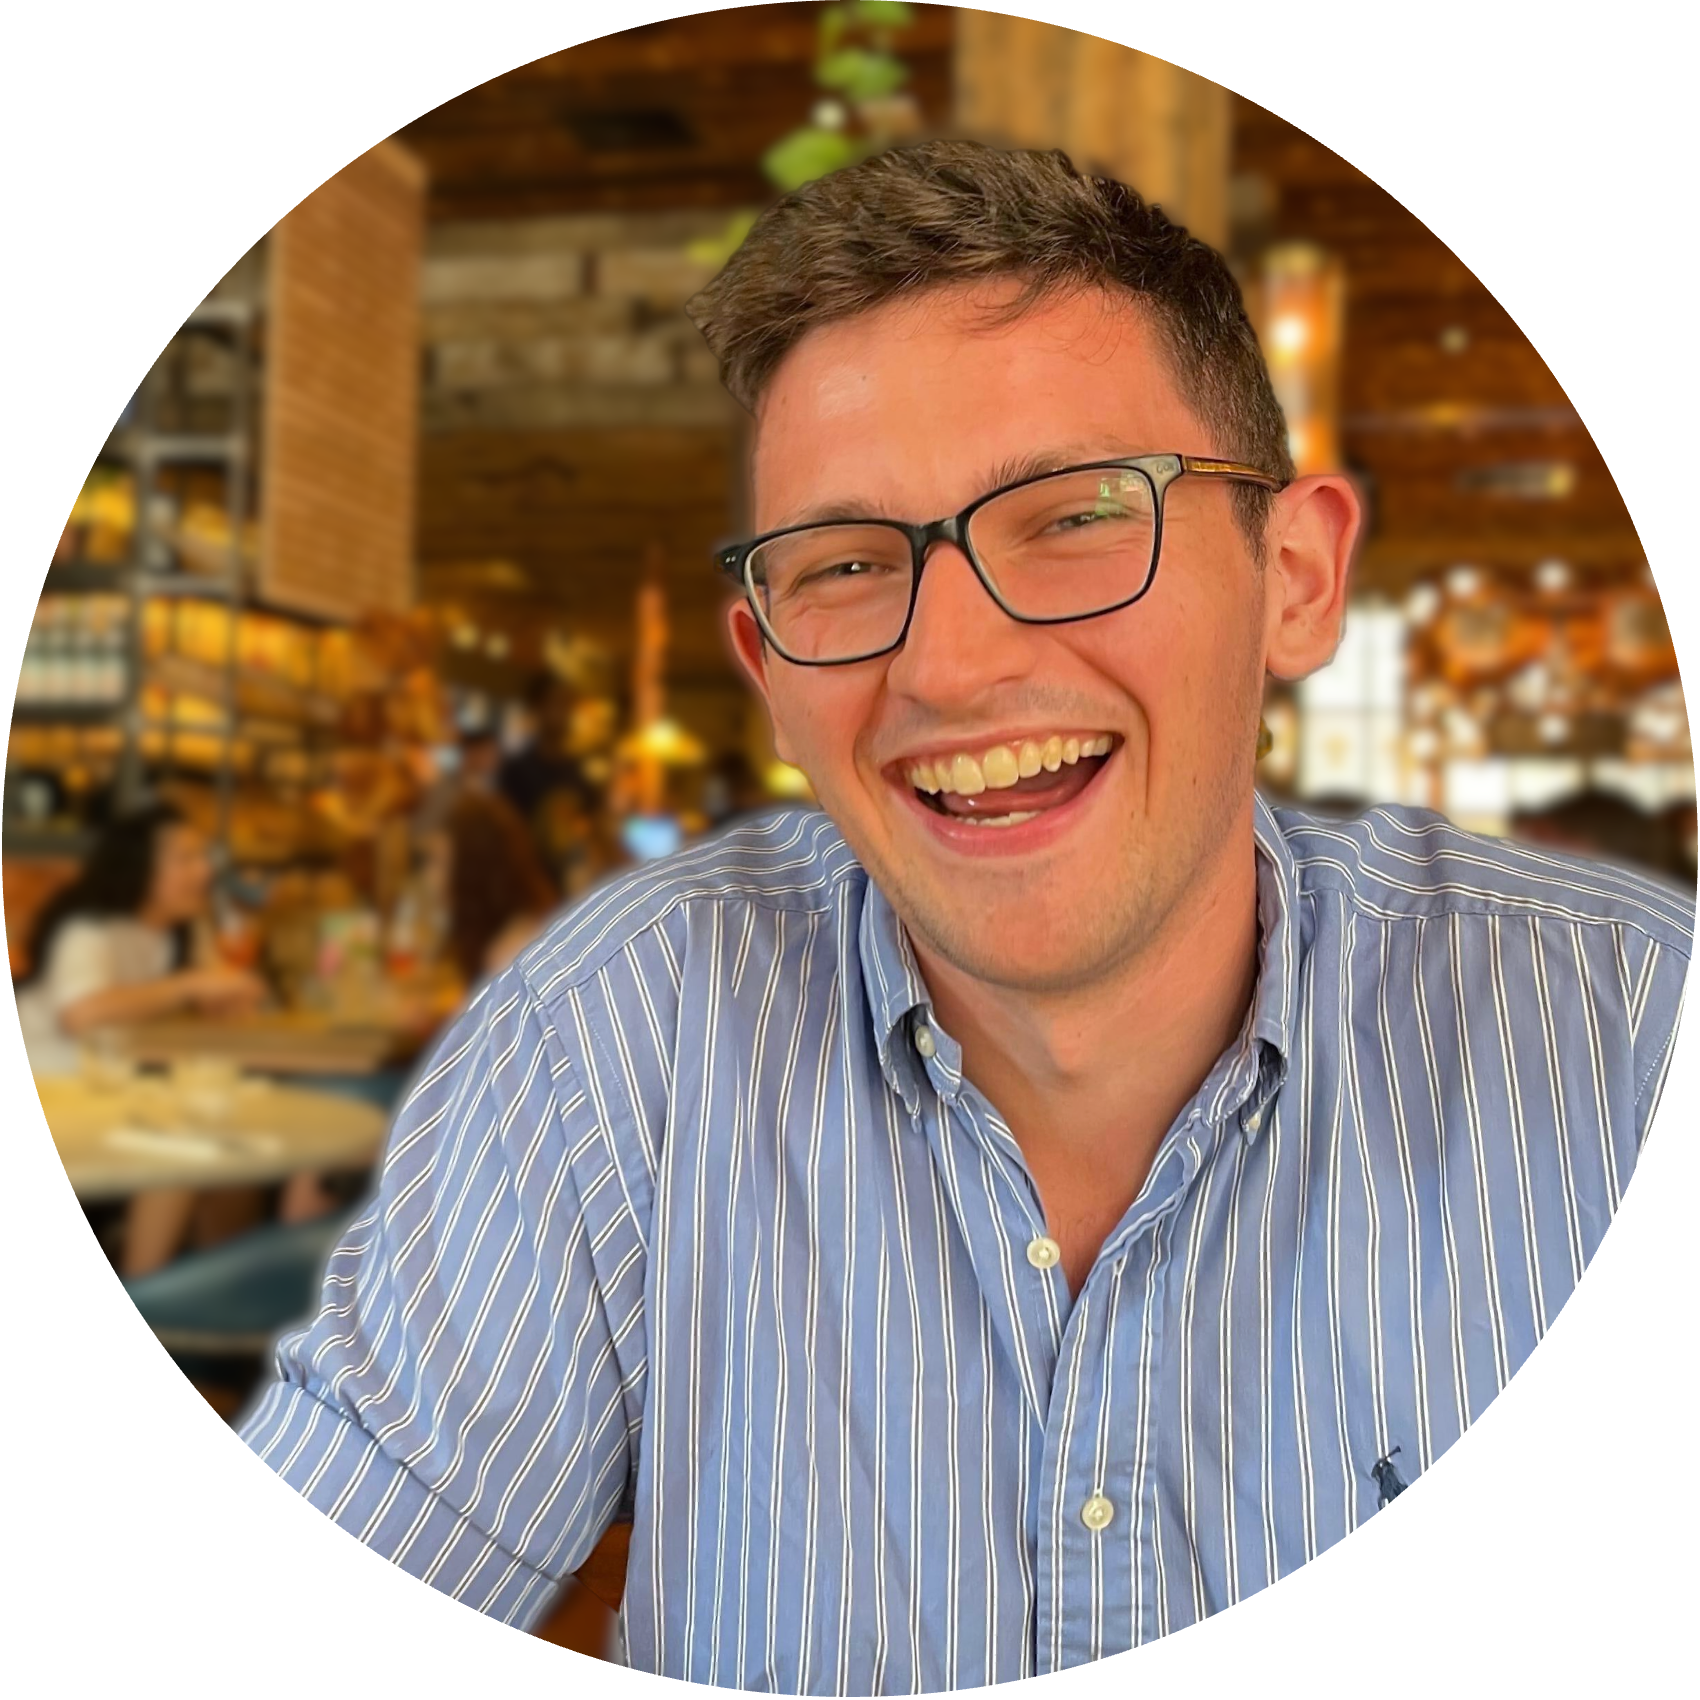
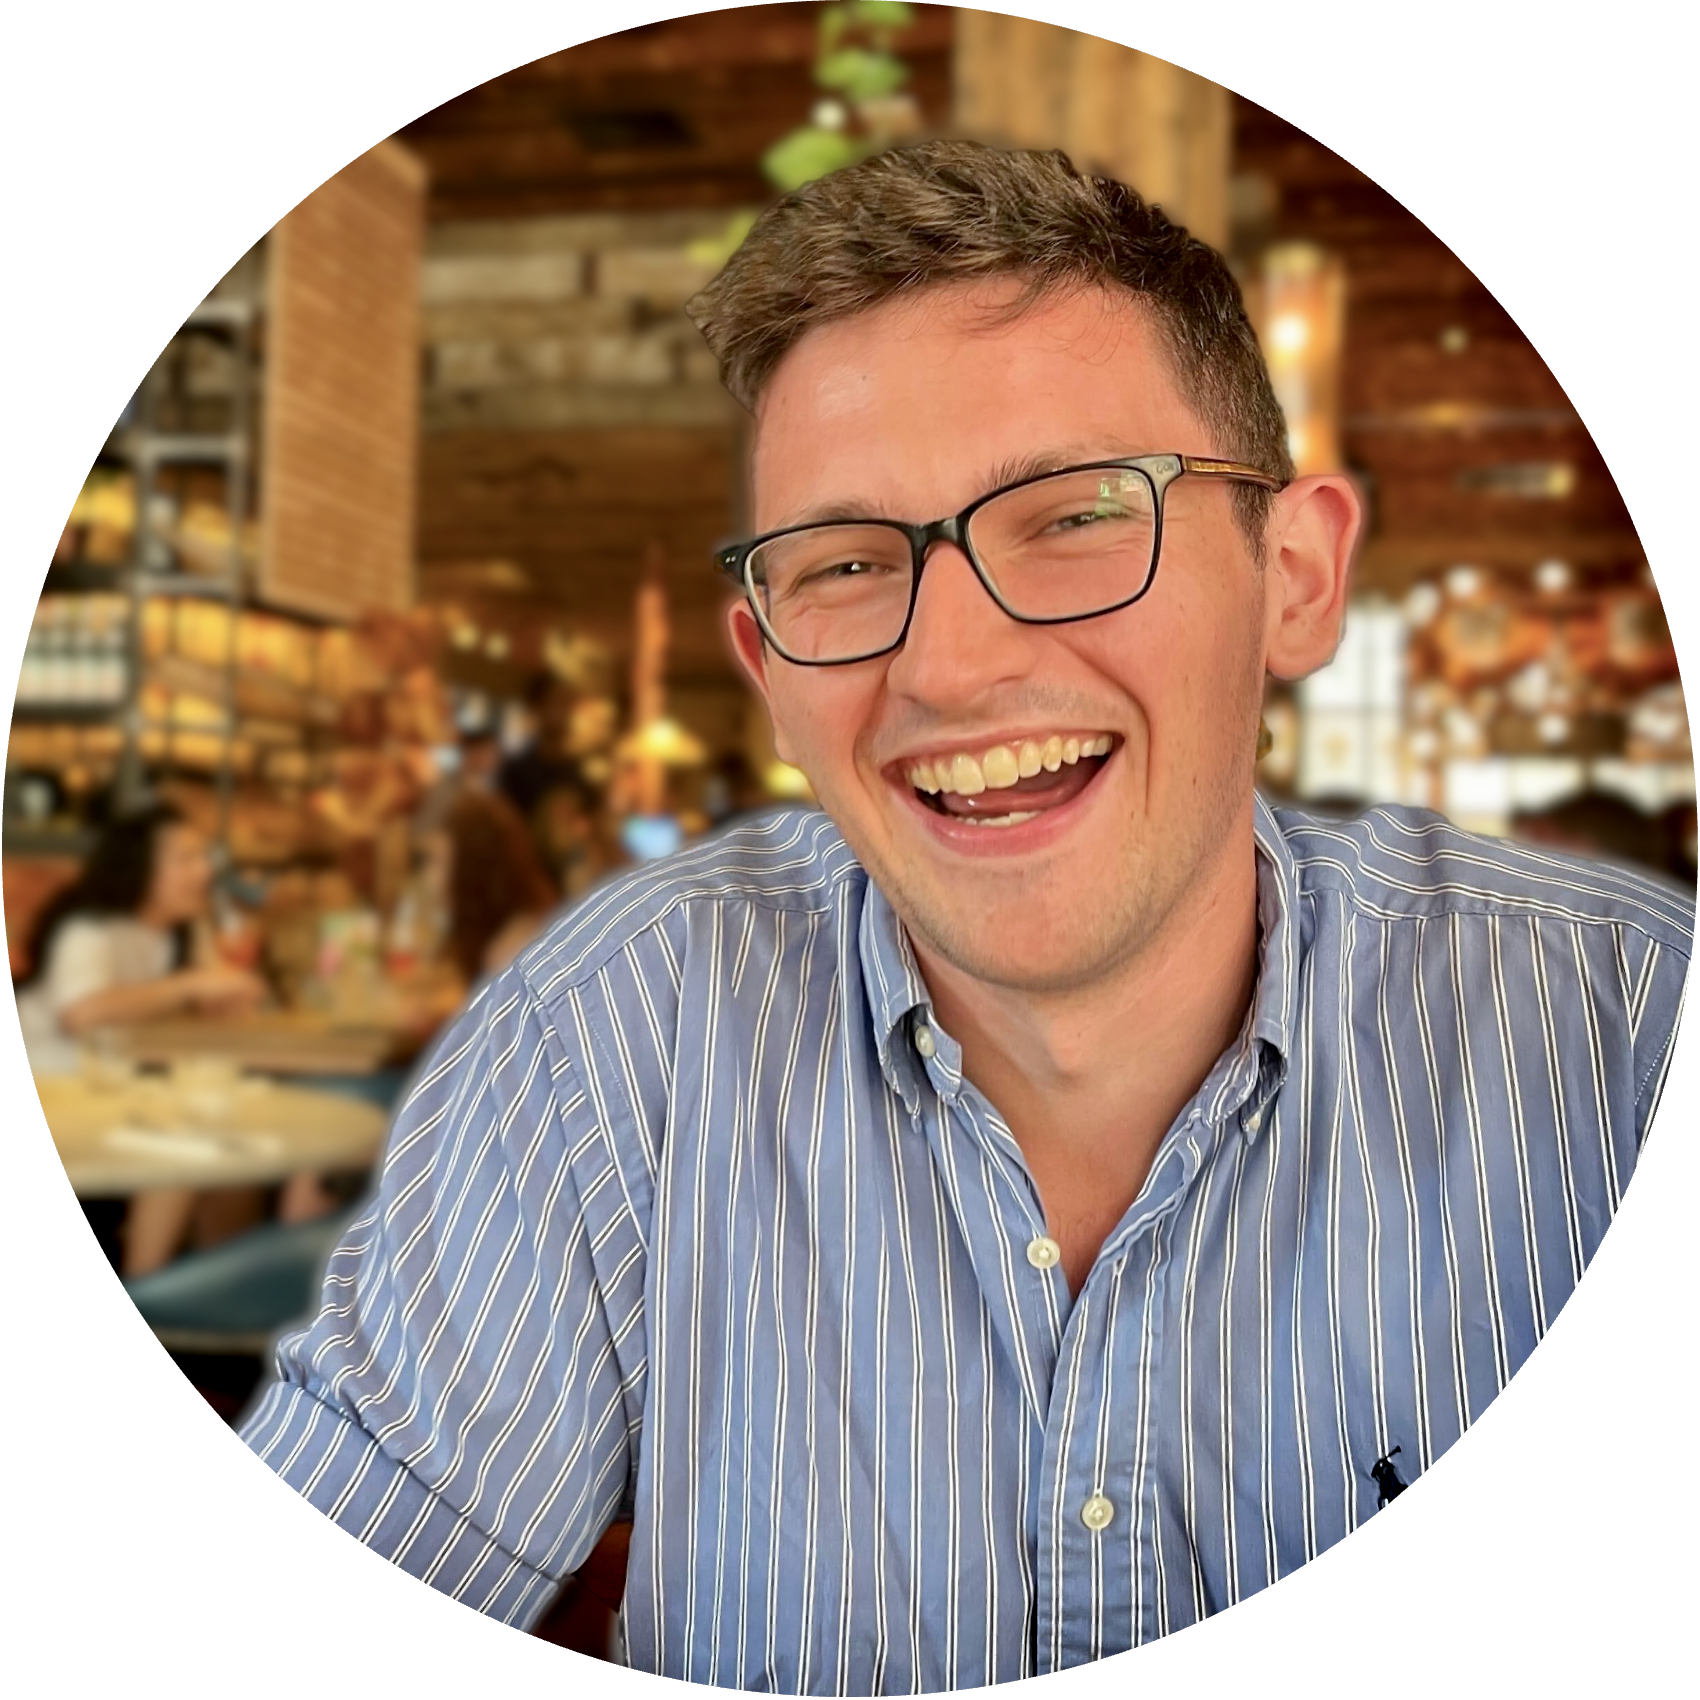
Change Image

diff --git a/index.html b/index.html
@@ -21,7 +21,7 @@ background: '/img/bg-index.jpg'
       <a href="{{site.baseurl}}/about" class="btn btn-dark text-white px-5 btn-lg">About me</a>
     </div>
     <div class="col-md-6 text-right pl-0 pl-lg-4">
-      <img class="intro" height="500" src="{{site.baseurl}}/assets/images/intro_1.jpeg">      
+      <img class="intro" height="500" src="{{site.baseurl}}/assets/images/intro_1.png">      
     </div>
   </div>
 </div>
